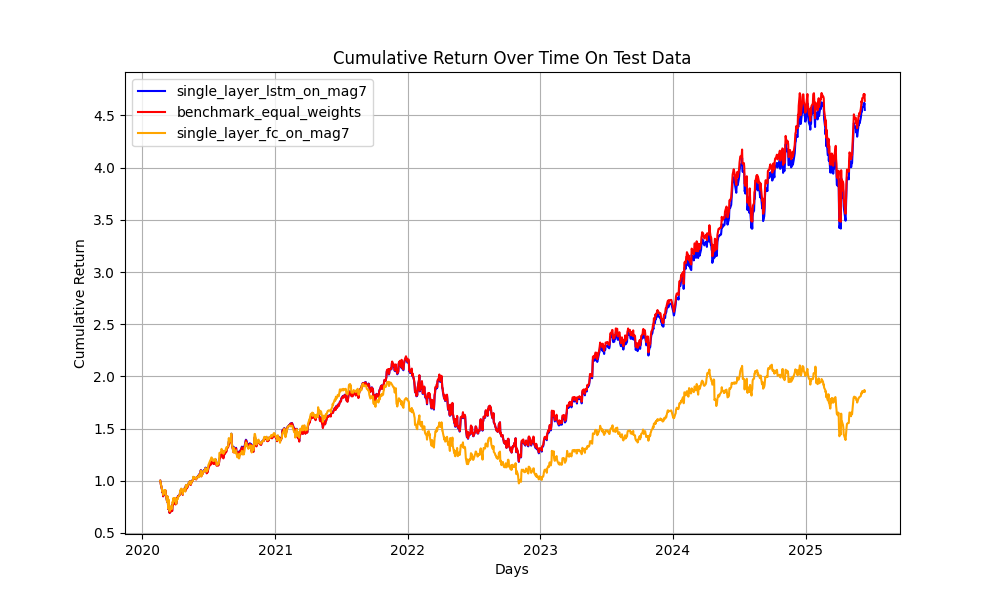
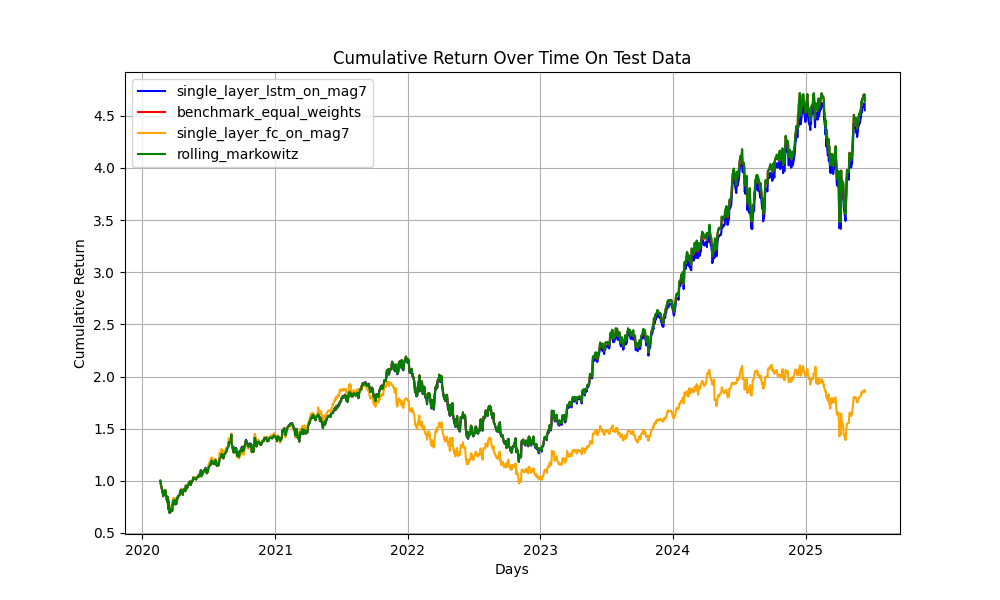
added rolling markowitz

diff --git a/classicmethods/mpt.py b/classicmethods/mpt.py
@@ -1,63 +1,22 @@
 import numpy as np
-import pandas as pd  # Assuming returns is a pandas DataFrame
+import pandas as pd
 import scipy.optimize as sco
 # import cupy as cp
 import torch
 import torch.optim
+import logging
 
-def markowitz_optimization(returns):
-    """
-    Perform Markowitz portfolio optimization to determine the optimal portfolio weights
-    that minimize portfolio volatility (risk) under given constraints.
+logger = logging.getLogger(__name__)
 
-    Parameters:
-        returns (pd.DataFrame): A DataFrame where each column represents the returns
-                                of an asset, and each row represents a time period.
-
-    Returns:
-        np.ndarray: An array of optimal portfolio weights that minimize volatility
-                    while satisfying the constraints.
-    """
-
-    # Optimization function
-    def minimize_volatility(weights, mean_returns, cov_matrix):
-        return np.sqrt(np.dot(weights.T, np.dot(cov_matrix, weights)))
-
-    # Compute mean & covariance
-    mean_returns = returns.mean()
-    cov_matrix = returns.cov()
-    num_assets = len(mean_returns)
-
-    # Constraints & bounds
-    constraints = ({'type': 'eq', 'fun': lambda x: np.sum(x) - 1})
-    bounds = tuple((0, 1) for _ in range(num_assets))
-    initial_guess = num_assets * [1. / num_assets]
-
-    # Optimize for minimum volatility
-    optimized_result = sco.minimize(minimize_volatility, initial_guess,
-                                    args=(mean_returns, cov_matrix),
-                                    method='SLSQP', bounds=bounds, constraints=constraints)
-
-    # Return results
-    optimal_weights = optimized_result.x
-    return optimal_weights
-
-
-def markowitz_optimization_pytorch(returns, learning_rate=1e-3, max_iter=1000, device='cuda'):
+def markowitz_optimization_pytorch(
+    returns: torch.Tensor,
+    learning_rate: float = 1e-3,
+    max_iter: int = 1000,
+    device: torch.device = torch.device("mps"),
+):
     """
     Markowitz portfolio optimization using PyTorch with gradient descent.
-
-    Parameters:
-        returns (pd.Dataframe): Matrix of asset returns (n_assets x n_days)
-        target_return (float): The target portfolio return to optimize
-        learning_rate (float): Learning rate for gradient descent
-        max_iter (int): Maximum number of iterations for optimization
-        device (str): Device to run the model on ('cuda' for GPU or 'cpu' for CPU)
-
-    Returns:
-        torch.Tensor: Optimal portfolio weights (n_assets,)
     """
-    returns = torch.tensor(returns.values, dtype=torch.float32, device=device)		
     # Step 1: Calculate expected returns and covariance matrix
     mean_returns = torch.mean(returns, dim=0)  # n_assets x 1
     cov_matrix = torch.cov(returns.T)  # n_assets x n_assets
@@ -73,7 +32,7 @@ def markowitz_optimization_pytorch(returns, learning_rate=1e-3, max_iter=1000, d
     for _ in range(max_iter):
         # Portfolio return and variance (risk)
         portfolio_return = torch.dot(mean_returns, weights)  # Expected return of the portfolio
-        portfolio_variance = torch.matmul(weights.T, torch.matmul(cov_matrix, weights))  # Portfolio variance (risk)
+        portfolio_variance = torch.matmul(weights, torch.matmul(cov_matrix, weights))
 
         # Portfolio loss (minimize variance)
         loss = portfolio_variance - portfolio_return
@@ -88,126 +47,53 @@ def markowitz_optimization_pytorch(returns, learning_rate=1e-3, max_iter=1000, d
         
         # Step 5: Normalize weights so that they sum to 1 (in-place operations)
         with torch.no_grad():
-            weights.data = torch.clamp(weights.data, min=0)  # Ensure weights are non-negative (long-only portfolio)
-            weights.data /= torch.sum(weights.data)  # Normalize so weights sum to 1
+            weights.clamp_(min=0)
+            weights /= weights.sum()
+
 
     return weights
 
-
-def markowitz_closed_form(returns, target_return):
+def rolling_markowitz(
+    test_returns: pd.DataFrame,
+    save_path: str,
+    device: torch.device = torch.device("mps"),
+    learning_rate: float = 5e-3,
+    max_iter: int = 100,
+    time_window: int = 32,
+):
     """
-    Closed-form Markowitz portfolio optimization.
-
-    Parameters:
-        mean_returns (torch.Tensor): Expected returns (n_assets,)
-        cov_matrix (torch.Tensor): Covariance matrix (n_assets x n_assets)
-        target_return (float): Target portfolio return
-
-    Returns:
-        torch.Tensor: Optimal portfolio weights (n_assets,)
+    Perform rolling Markowitz portfolio optimization on test returns. Using markowitz_optimization_pytorch function.
+    Returns the portfolio value and returns for each day in the test set.
     """
-    device = returns.device
-
-    # Mean returns and covariance matrix
-    mean_returns = returns.mean(dim=1)  # (n_assets,)
-    cov_matrix = torch.cov(returns)     # (n_assets x n_assets)
-
-    ones = torch.ones_like(mean_returns, device=device)
+    logger.info(f"Starting rolling Markowitz...")
+    logger.debug(f"Iterations: {max_iter}")
+    test_returns_tensor = torch.tensor(test_returns.values, dtype=torch.float32, device=device)
     
-    # Invert covariance matrix
-    cov_inv = torch.linalg.pinv(cov_matrix)
+    cumulative_returns_markowitz = [1]
+    markowitz_returns = []
 
-    A = torch.dot(ones, cov_inv @ ones)
-    B = torch.dot(ones, cov_inv @ mean_returns)
-    C = torch.dot(mean_returns, cov_inv @ mean_returns)
+    window_size = time_window
 
-    denominator = A * C - B**2
-    if denominator == 0:
-        raise ValueError("Singular system. Check inputs.")
+    for t in range(window_size, len(test_returns_tensor)):
 
-    lambda_ = (A * target_return - B) / denominator
-    nu = (C - B * target_return) / denominator
+        if t % 100 == 0:
+            logger.info(f"Day {t}")
 
-    weights = cov_inv @ (lambda_ * mean_returns + nu * ones)
+        optimal_weights = markowitz_optimization_pytorch(
+            test_returns_tensor[t-window_size:t],
+            learning_rate=learning_rate,
+            max_iter=max_iter,
+            device=device
+            )
 
-    return weights
+        next_day_return = torch.dot(optimal_weights, test_returns_tensor[t])
 
-# def markowitz_optimization_cupy(returns_df, learning_rate=1e-4, max_iter=1000, device='cuda'):
-#     """
-#     Markowitz portfolio optimization using CuPy with gradient descent on GPU.
-    
-#     Parameters:
-#         returns_df (pd.DataFrame): Asset returns with shape (n_days, n_assets)
-#         learning_rate (float): Gradient descent learning rate
-#         max_iter (int): Number of iterations
-#         device (str): Must be 'cuda' (for PyTorch tensor output)
-        
-#     Returns:
-#         torch.Tensor: Optimized portfolio weights on GPU (n_assets,)
-#     """
-#     # Convert pandas DataFrame to CuPy array on GPU
-#     returns_cp = cp.asarray(returns_df.values, dtype=cp.float32)  # shape (n_days, n_assets)
-    
-#     # Calculate mean returns and covariance matrix (on GPU)
-#     mean_returns = cp.mean(returns_cp, axis=0)       # shape (n_assets,)
-#     cov_matrix = cp.cov(returns_cp.T)                # shape (n_assets, n_assets)
-    
-#     n_assets = returns_cp.shape[1]
-#     weights = cp.ones(n_assets, dtype=cp.float32) / n_assets
-    
-#     for _ in range(max_iter):
-#         # Gradient of portfolio variance
-#         grad_variance = 2 * cov_matrix.dot(weights)
-        
-#         # Gradient of negative return (to maximize return, add minus)
-#         grad_return = -mean_returns
-        
-#         # Total gradient
-#         grad = grad_variance + grad_return
-        
-#         # Gradient descent step
-#         weights -= learning_rate * grad
-        
-#         # Project weights: no short selling, weights >= 0, sum to 1
-#         weights = cp.clip(weights, 0, cp.inf)
-#         weights /= cp.sum(weights)
+        cumulative_returns_markowitz.append(cumulative_returns_markowitz[-1] * (1 + next_day_return.item()))
+        markowitz_returns.append(next_day_return.item())
 
-#     # Move weights back to PyTorch tensor on CUDA device
-#     # weights_torch = torch.tensor(weights.get(), dtype=torch.float32, device=device)
-    
-#     return weights
+    cumulative_returns_markowitz = np.array(cumulative_returns_markowitz)
+    markowitz_returns = np.array(markowitz_returns)
 
-def differentiable_markowitz(returns, target_return, learning_rate = 1e-6):
-    """
-    Differentiable closed-form Markowitz optimization in PyTorch.
-    
-    Args:
-        returns: (S, T) predicted returns, where S is number of assets, T is time
-        target_return: float, the desired expected portfolio return
-    
-    Returns:
-        weights: (S,) portfolio weights, differentiable
-    """
-    mu = returns.mean(dim=1)  # (S,)
-    cov = returns @ returns.T / (returns.shape[1] - 1)  # (S, S)
-
-    cov += learning_rate * torch.eye(cov.size(0), device=returns.device)  # for numerical stability
-
-    inv_cov = torch.linalg.pinv(cov)  # (S, S)
-
-    one = torch.ones_like(mu)  # (S,)
-
-    A = mu @ inv_cov @ mu
-    B = mu @ inv_cov @ one
-    C = one @ inv_cov @ one
-    D = A * C - B ** 2
-
-    lambda1 = (C * target_return - B) / D
-    lambda2 = (A - B * target_return) / D
-
-    weights = lambda1 * (inv_cov @ mu) + lambda2 * (inv_cov @ one)  # (S,)
-
-    weights = torch.clamp(weights, min=0)  # long-only constraint
-    weights = weights / weights.sum()  # normalize
-
-    return weights
+    np.save(f"{save_path}/cumulative_returns_markowitz.npy", cumulative_returns_markowitz)
+    np.save(f"{save_path}/markowitz_returns.npy", markowitz_returns)
+    logger.info("Saved Markowitz portfolio value and returns.")

diff --git a/test.py b/test.py
@@ -18,18 +18,22 @@ def test_all(
     model_fc: SharpeFCModel,
     test_prices: pd.DataFrame,
     test_returns: pd.DataFrame,
+    cumulative_returns_markowitz: np.ndarray = None,
+    markowitz_returns: np.ndarray = None,
     T: int = 32,
     S: int = 7,
-    device: torch.device = DEVICE
+    device: torch.device = torch.device("mps")
 ):
     logger.info("Testing models...")
     cumulative_returns_test = [1]
     cumulative_returns_equal = [1] # equal
     cumulative_returns_fc = [1] # fc
+    cumulative_returns_markowitz = cumulative_returns_markowitz # markowitz
 
     test_predictions = []
     benchmark_returns = []
     test_predictions_fc = []
+    markowitz_returns = markowitz_returns
 
     testing_data = torch.stack([torch.tensor(test_prices.values, dtype=torch.float32),
                                 torch.tensor(test_returns.values, dtype=torch.float32)], axis=2).to(device) # (days, S, 2)
@@ -63,8 +67,8 @@ def test_all(
             label='benchmark_equal_weights', color='red') # equal
     plt.plot(test_prices.index.values[T - 1:], np.array([r.cpu().item() if r != 1 else r for r in cumulative_returns_fc]),
             label=MODEL_NAME_FC, color='orange')
-    # plt.plot(test_prices.index.values[T - 1:], portfolio_value_markowitz,
-    #         label='Markowitz', color='green') # markowitz
+    plt.plot(test_prices.index.values[T - 1:], cumulative_returns_markowitz,
+            label='rolling_markowitz', color='green') # markowitz
     plt.title("Cumulative Return Over Time On Test Data")
     plt.xlabel("Days")
     plt.ylabel("Cumulative Return")
@@ -94,6 +98,9 @@ if __name__ == "__main__":
     model.load_state_dict(torch.load(f"{LATEST_MODEL_PATH}/weights_lstm.pth"))
     model_fc.load_state_dict(torch.load(f"{LATEST_MODEL_PATH}/weights_fc.pth"))
 
+    cumulative_returns_markowitz = np.load(f"{LATEST_MODEL_PATH}/cumulative_returns_markowitz.npy")
+    markowitz_returns = np.load(f"{LATEST_MODEL_PATH}/markowitz_returns.npy")
+
     stock_data = Data(DF_MAG7_RAW)
 
     test_prices, test_returns = stock_data.get_test_dataframes(
@@ -106,6 +113,8 @@ if __name__ == "__main__":
         test_returns=test_returns,
         model=model,
         model_fc=model_fc,
+        cumulative_returns_markowitz=cumulative_returns_markowitz,
+        markowitz_returns=markowitz_returns,
         T=TIME_WINDOW,
         S=STOCK_COUNT,
         device=DEVICE

diff --git a/train.py b/train.py
@@ -10,6 +10,7 @@ from config import (
     LATEST_MODEL_PATH, LR, MOMENTUM, WEIGHT_DECAY, LOSS_FUNCTION, OPTIMIZE_TYPE,
     fix_seed, PREPROCESS_KWARGS, DF_MAG7_RAW, inspect_dataloader
 )
+from classicmethods.mpt import rolling_markowitz
 import logging
 
 logger = logging.getLogger(__name__)
@@ -22,7 +23,7 @@ def train_model(
     momentum: float = 0.99,
     weight_decay: float = 1e-5,
     optimize_type: str = "SGD",
-    device: torch.device = DEVICE
+    device: torch.device = torch.device("mps")
 ):
     logger.info(f"Training {model_type.upper()} model...")
 
@@ -147,6 +148,9 @@ if __name__ == "__main__":
     logger.debug(f"Stock count: {STOCK_COUNT}, Number of epochs: {NUM_EPOCHS}")
 
     stock_data = Data(DF_MAG7_RAW)
+    _, test_returns = stock_data.get_test_dataframes(
+        **PREPROCESS_KWARGS
+    )
     train_dataloader, val_dataloader = stock_data.get_train_val_dataloaders(
         batch_size=BATCH_SIZE,
         window_size=TIME_WINDOW,
@@ -176,3 +180,11 @@ if __name__ == "__main__":
         train_dataloader=train_dataloader,
         val_dataloader=val_dataloader
         )
+    rolling_markowitz(
+        test_returns=test_returns,
+        save_path=LATEST_MODEL_PATH,
+        device=DEVICE,
+        learning_rate=5e-3,
+        max_iter=100,
+        time_window=TIME_WINDOW
+    )
